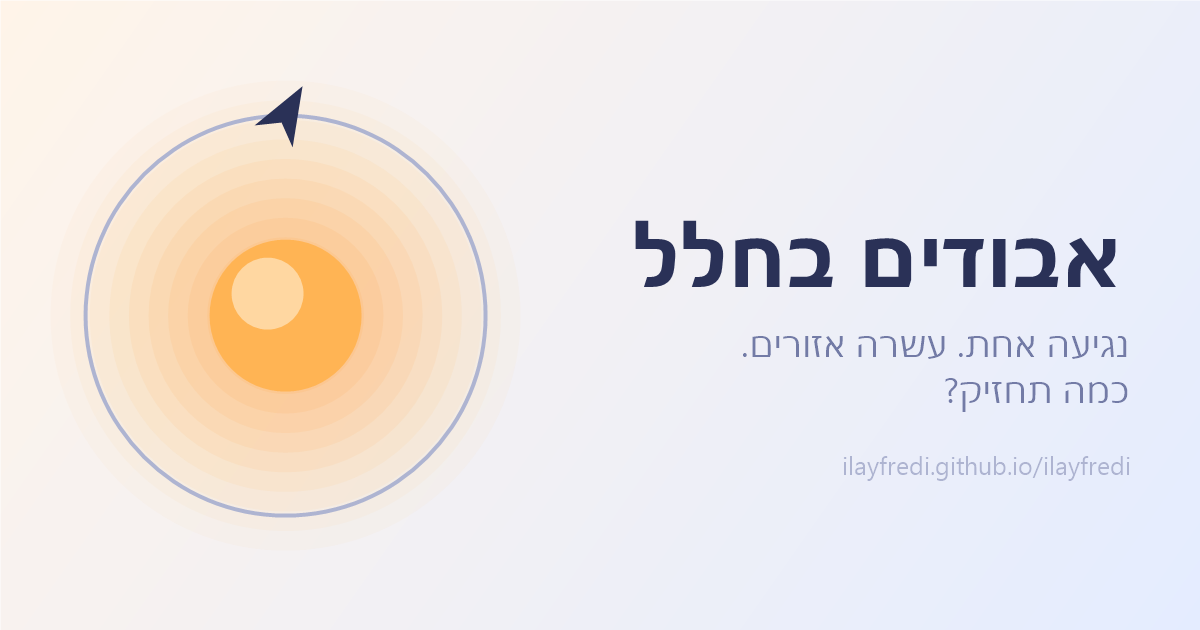
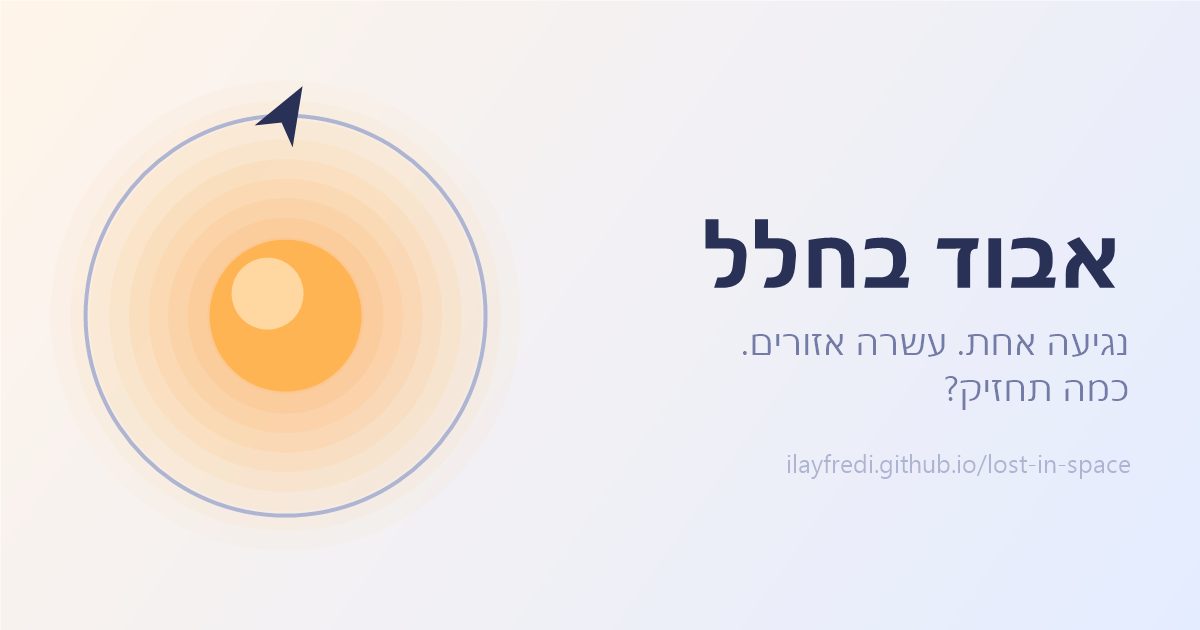
Add files via upload

diff --git a/index.html b/index.html
@@ -3,16 +3,16 @@
 <head>
 <meta charset="utf-8">
 <meta name="viewport" content="width=device-width, initial-scale=1, viewport-fit=cover">
-<title>אבודים בחלל</title>
+<title>אבוד בחלל</title>
 
 <meta name="description" content="משחק ארקייד בנגיעה אחת. אתה נעול במסלול סביב כוכב שקורס — נגיעה הופכת את הכיוון. עשרה אזורים, אתגר יומי, ומרוץ מול הרוח של החברים שלך.">
 <meta property="og:type" content="website">
-<meta property="og:title" content="אבודים בחלל">
+<meta property="og:title" content="אבוד בחלל">
 <meta property="og:description" content="נגיעה אחת. עשרה אזורים. כמה תחזיק?">
-<meta property="og:image" content="https://ilayfredi.github.io/ilayfredi/preview.png">
+<meta property="og:image" content="https://ilayfredi.github.io/lost-in-space/preview.png">
 <meta property="og:image:width" content="1200">
 <meta property="og:image:height" content="630">
-<meta property="og:url" content="https://ilayfredi.github.io/ilayfredi/">
+<meta property="og:url" content="https://ilayfredi.github.io/lost-in-space/">
 <meta name="twitter:card" content="summary_large_image">
 
 <link rel="manifest" href="manifest.webmanifest">
@@ -23,7 +23,7 @@
 <meta name="theme-color" content="#eef3ff">
 <meta name="apple-mobile-web-app-capable" content="yes">
 <meta name="apple-mobile-web-app-status-bar-style" content="default">
-<meta name="apple-mobile-web-app-title" content="אבודים בחלל">
+<meta name="apple-mobile-web-app-title" content="אבוד בחלל">
 
 <style>
   /* Self-hosted so the type is right on first paint and still works offline.
@@ -347,7 +347,7 @@
 
   <section id="splash" class="veil on">
     <div class="sp-top">
-      <h1 class="gametitle" data-i18n="title">אבודים בחלל</h1>
+      <h1 class="gametitle" data-i18n="title">אבוד בחלל</h1>
       <div class="flourish"></div>
     </div>
     <div class="sp-bottom">
@@ -373,7 +373,7 @@
     <div class="crown">
       <span class="crown-label" data-i18n="bestLabel">השיא</span>
       <strong id="homeBest" class="crown-num">0</strong>
-      <span class="crown-sub" data-i18n="title">אבודים בחלל</span>
+      <span class="crown-sub" data-i18n="title">אבוד בחלל</span>
     </div>
 
     <div class="menu">
@@ -474,7 +474,7 @@
   "use strict";
 
   /* ============================================================
-     אבודים בחלל / LOST IN SPACE
+     אבוד בחלל / LOST IN SPACE
      One input: touching anywhere reverses your direction around a
      collapsing star. Ten sectors, each keeping the hazards before
      it and adding one more.
@@ -491,7 +491,7 @@
   var L = {
     he: {
       dir: "rtl", htmlLang: "he", other: "EN", otherName: "English",
-      title: "אבודים בחלל", author: "עילי פרדי",
+      title: "אבוד בחלל", author: "עילי פרדי",
       madeBy: "נוצר מהראש של", skip: "גע כדי לדלג",
       badge1: "גאון של החלל", badge2: "אלוף בלתי מעורער", badge3: "אגדה חיה",
       praise: ["האיש שהפך נגיעה אחת למשחק שלם", "עשרה אזורים, אפס פשרות",
@@ -515,7 +515,7 @@
       ios2: 'גלול ובחר "הוסף למסך הבית".',
       ios3: 'לחץ "הוסף" בפינה.',
       getNote: "באייפון זה חייב להיפתח בספארי — בכרום באייפון האפשרות לא קיימת.",
-      aboutLede: "אבודים בחלל הוא משחק על שליטה אחת בלבד. אתה נעול במסלול סביב כוכב שקורס, ונגיעה במסך הופכת את כיוון התנועה שלך. זה הכל — ומשם זה רק נעשה קשה יותר.",
+      aboutLede: "אבוד בחלל הוא משחק על שליטה אחת בלבד. אתה נעול במסלול סביב כוכב שקורס, ונגיעה במסך הופכת את כיוון התנועה שלך. זה הכל — ומשם זה רק נעשה קשה יותר.",
       howTitle: "איך משחקים",
       how1: "נוגעים בכל מקום במסך כדי להפוך כיוון. אין כפתורים.",
       how2: "אוספים כדורי פלזמה כדי להעלות את המכפיל.",
@@ -547,9 +547,9 @@
       qSector: function (n) { return "הגע לאזור " + n; },
       qScore: function (n) { return "עשה " + n.toLocaleString() + " נקודות בריצה"; },
       qGraze: function (n) { return "חלוף ליד " + n + " סלעים"; },
-      shPlain: function (u) { return "אבודים בחלל - נגיעה אחת, עשרה אזורים:\n" + u; },
+      shPlain: function (u) { return "אבוד בחלל - נגיעה אחת, עשרה אזורים:\n" + u; },
       shRun: function (s, d, z, zn, u, c) {
-        return "אבודים בחלל - " + (d ? "האתגר היומי: " : "") + "עשיתי " + s +
+        return "אבוד בחלל - " + (d ? "האתגר היומי: " : "") + "עשיתי " + s +
                " והגעתי לאזור " + z + " (" + zn + ").\n" +
                "אותו שדה סלעים בדיוק, והרוח שלי טסה לידך:\n" + u + "#c=" + c + "\n" +
                "(אם הקישור מאבד את הקוד, הדבק אותו במשחק: " + c + ")";
@@ -1675,7 +1675,7 @@
     x.fillText(t("zone") + " " + ((lastRun ? lastRun.sector : 0) + 1) + " · " + (lastRun ? SECTORS()[lastRun.sector].name : ""), W / 2, 890);
     x.direction = "ltr";
     x.fillStyle = s.faint; x.font = "500 34px Deck, system-ui, sans-serif";
-    x.fillText("ilayfredi.github.io/ilayfredi", W / 2, 986);
+    x.fillText("ilayfredi.github.io/lost-in-space", W / 2, 986);
     return c;
   }
   $("btnShare").addEventListener("click", function () {

diff --git a/sw.js b/sw.js
@@ -1,7 +1,7 @@
 /* Orbit Decay service worker.
    The whole game is one HTML file, so a plain precache makes it work
    offline and satisfies the installability requirement. */
-var VERSION = "od-v10";
+var VERSION = "od-v11";
 var ASSETS = ["./", "./index.html", "./manifest.webmanifest", "./icon-192.png", "./icon-512.png",
               "./f-rubik-he.woff2", "./f-rubik-la.woff2", "./f-title-he.woff2", "./f-title-la.woff2"];
 
